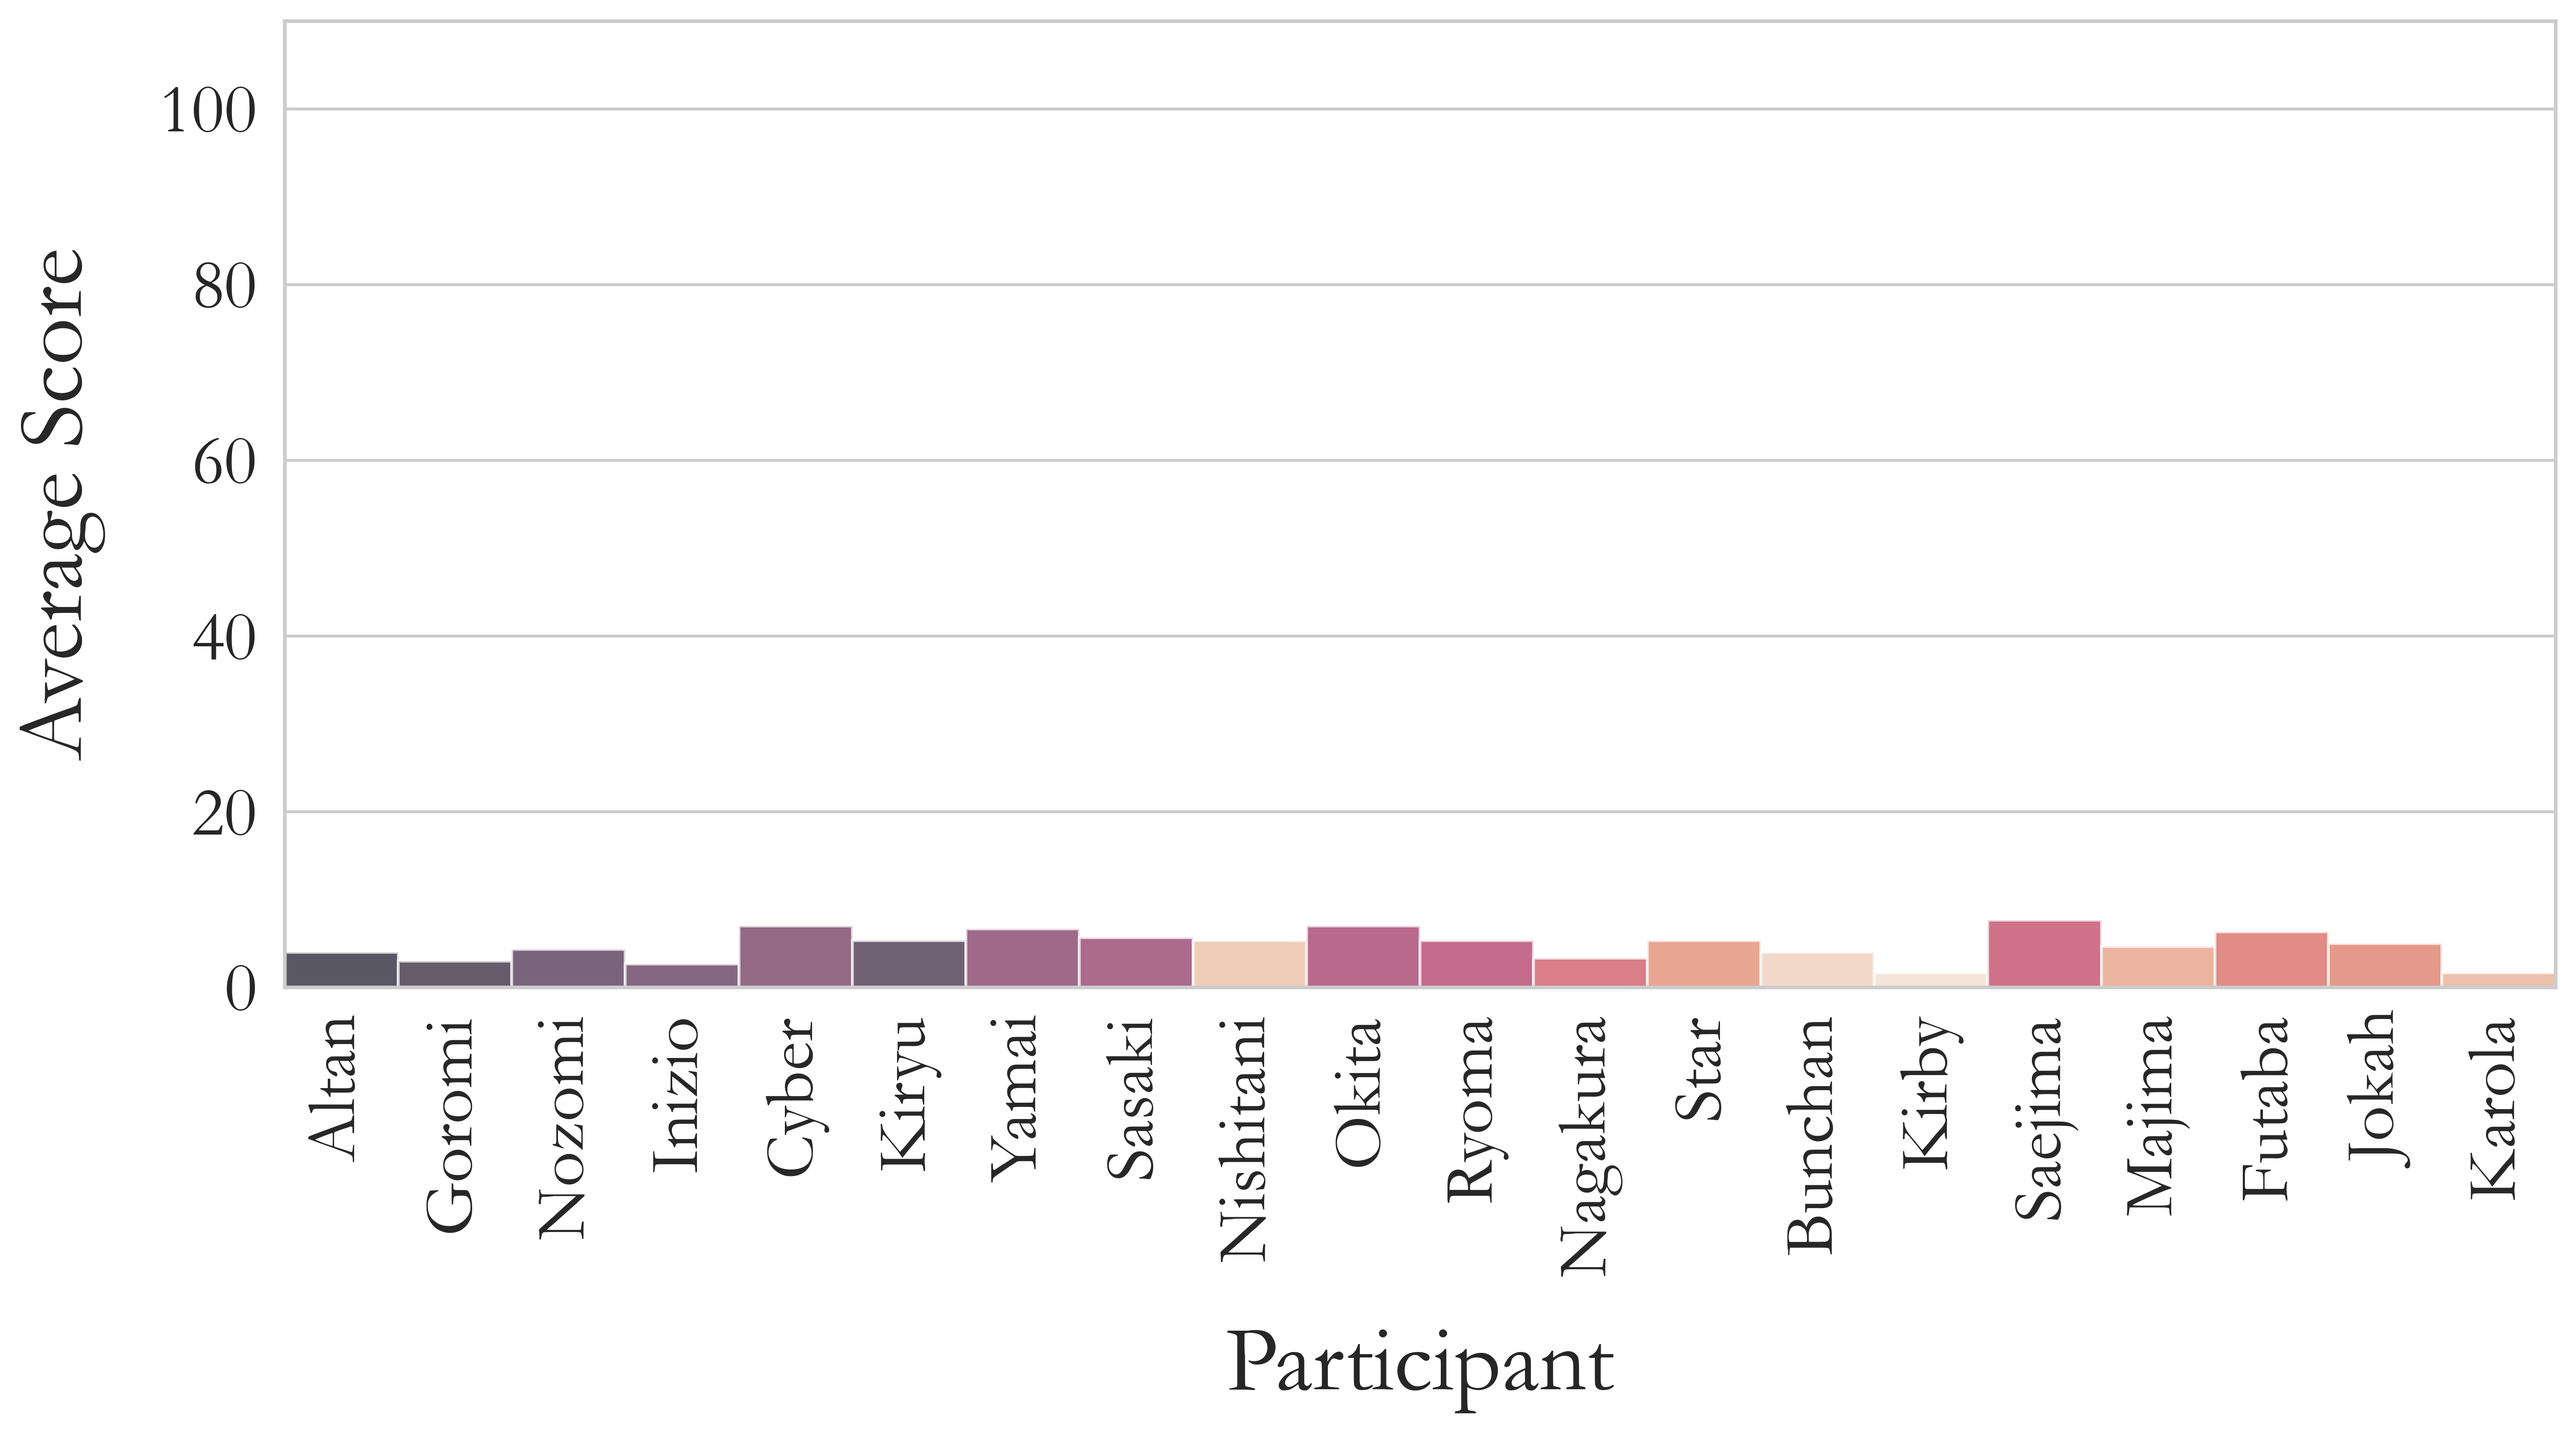
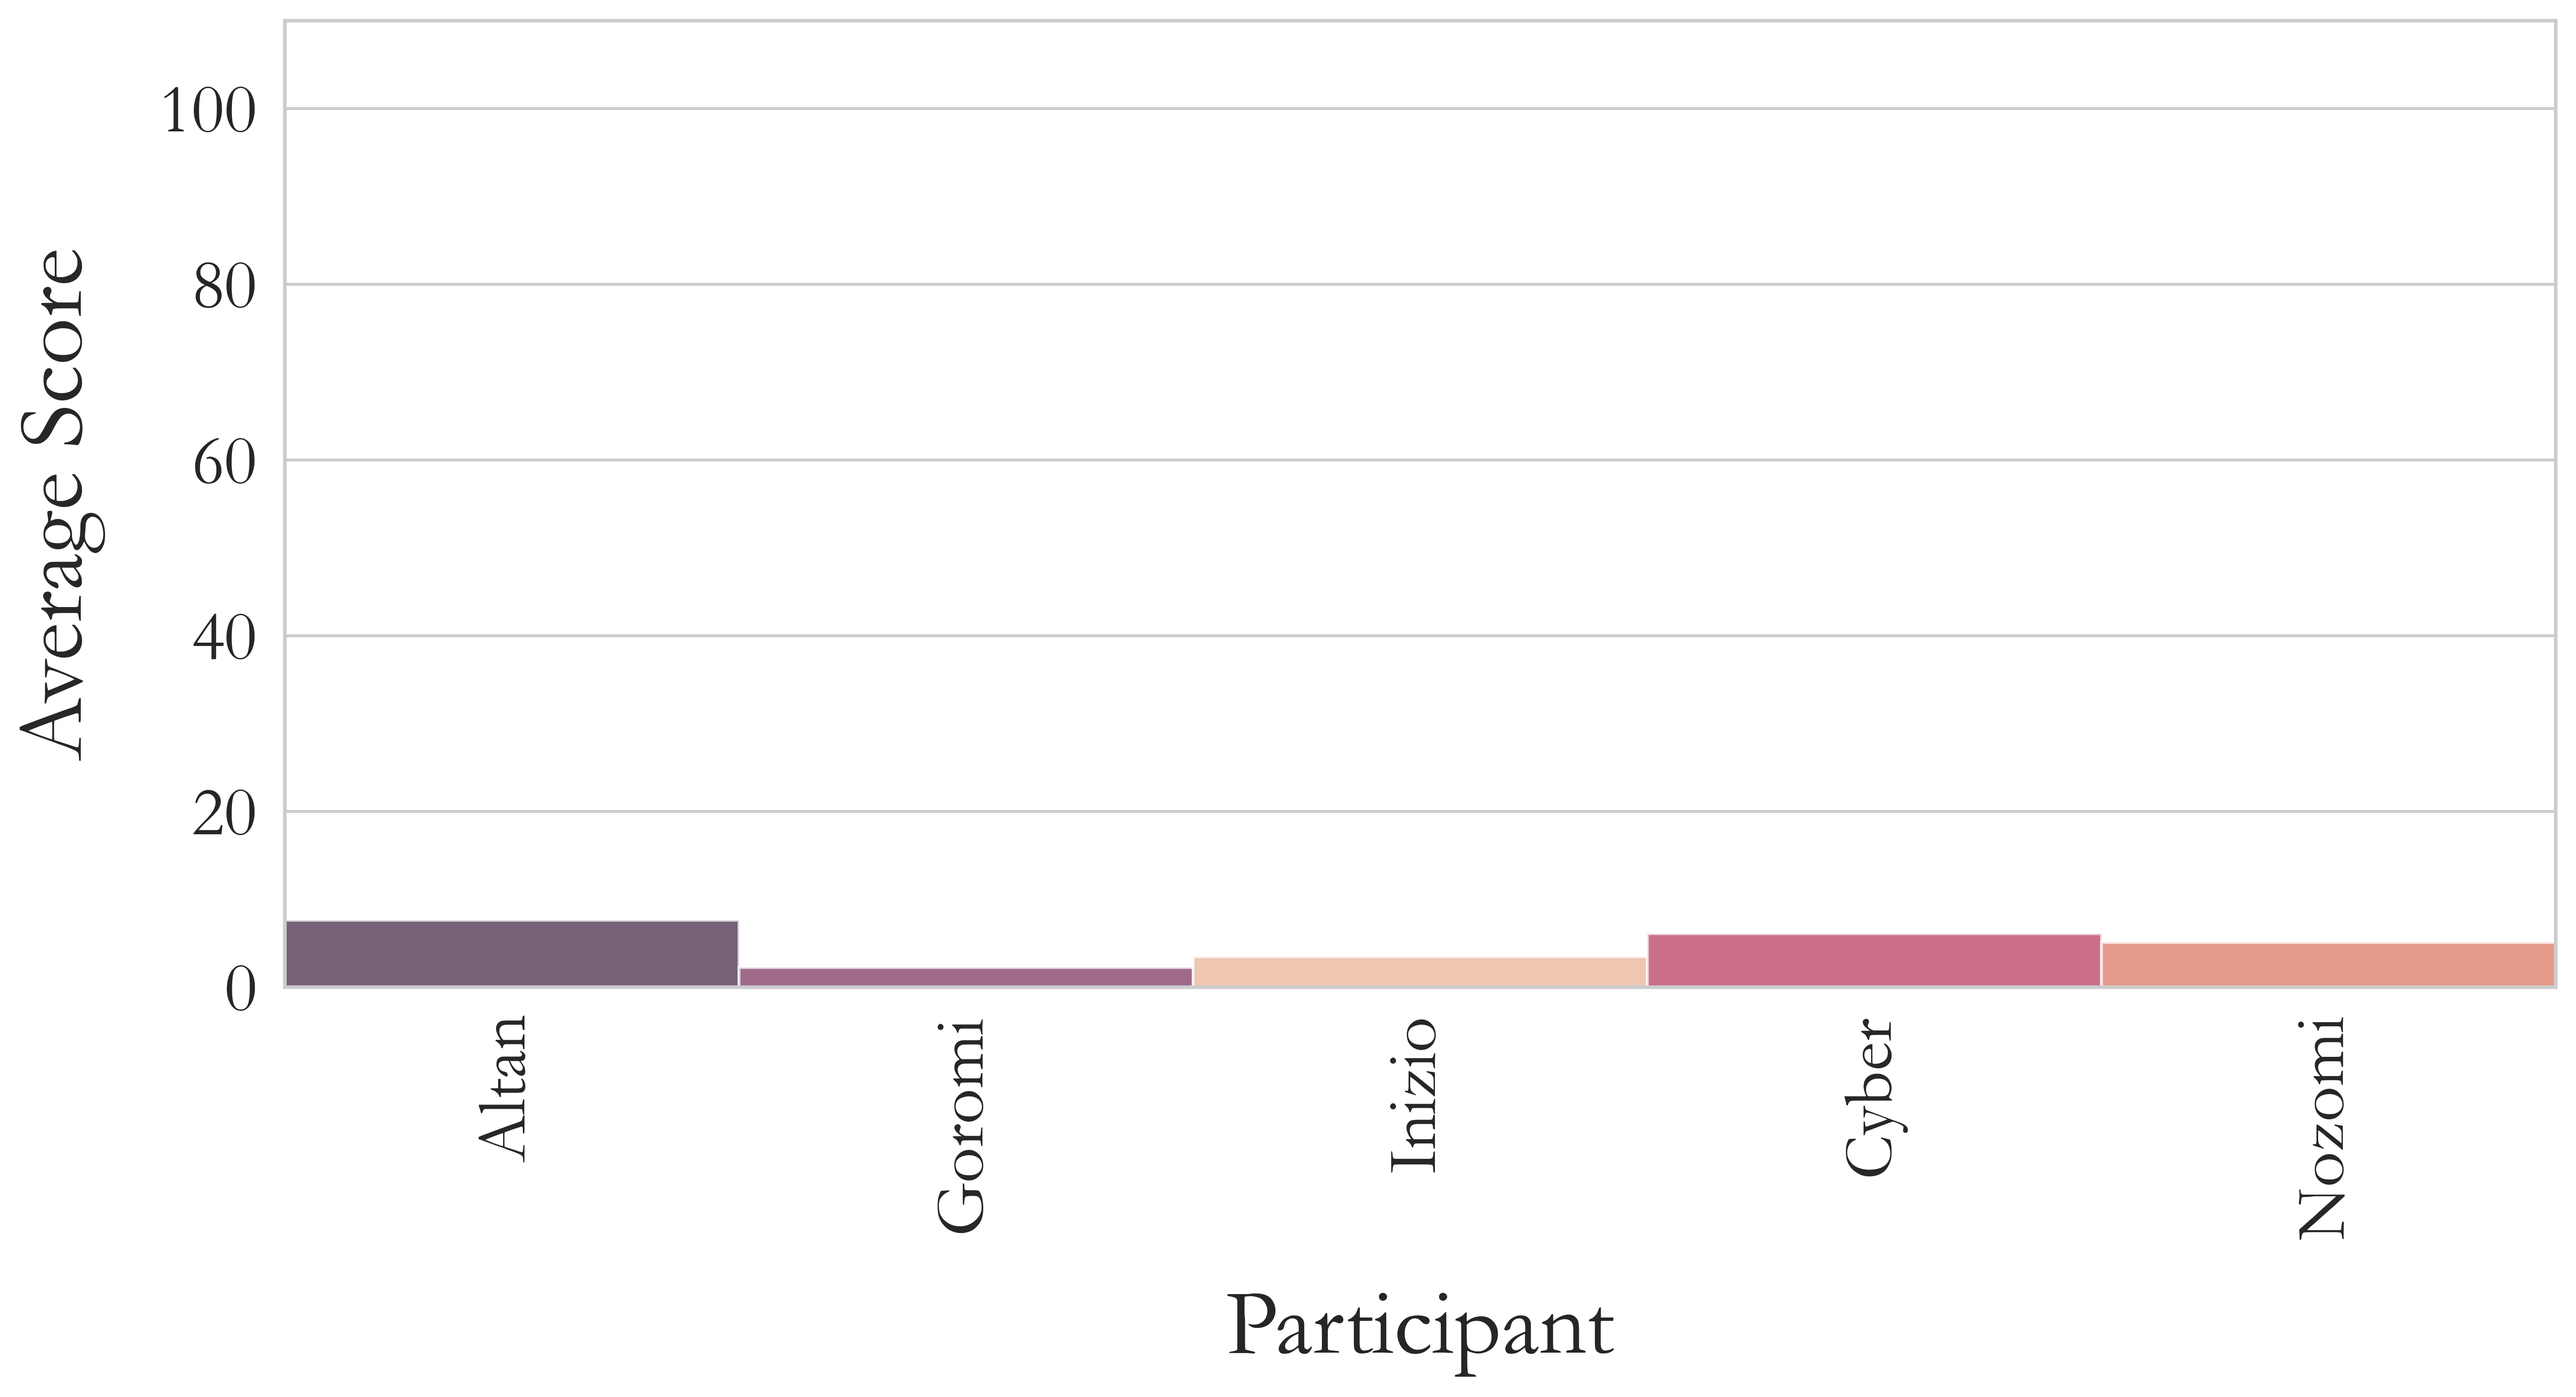
Added a scenario to dobbelsteen.py

diff --git a/dobbelsteen.py b/dobbelsteen.py
@@ -64,13 +64,27 @@ resident20 = Residents()
 resident20.id = 20
 
 preference = ""
-while preference.upper() != "A" and preference.upper() != "B":
-    preference = input("""Let the residents of my house participate, or choose other participants?
-                    A. Residents
-                    B. Define my own """)
-if preference.upper() not in ["A", "B"]:
-    print("\nYou didn't answer A or B. Try again.\n")
+while preference.upper() != "A" and preference.upper() != "B" and preference.upper() != "C":
+    preference = input("""Let all residents of my house participate, only the Majis, or choose other (max. 20) participants?
+                    A. All Residents
+                    B. Only the Majis
+                    C. Define my own """)
+if preference.upper() not in ["A", "B", "C"]:
+    print("\nYou didn't answer A, B or C. Try again.\n")
 elif preference.upper() == "B":
+    number_of_participants_entered = 5
+    resident1.name = "Altan"
+    resident1.team = "Pocky Lovers"
+    resident2.name = "Goromi"
+    resident2.team = "Pocky Lovers"
+    resident3.name = "Cyber"
+    resident3.team = "Chocolate Lovers"
+    resident4.name = "Nozomi"
+    resident4.team = "Chocolate Lovers"
+    resident5.name = "Inizio"
+    resident5.team = "Pocky Lovers"
+    pass
+elif preference.upper() == "C":
     number_of_participants_entered = 0
     command = ""
     while command.upper() != "B":
